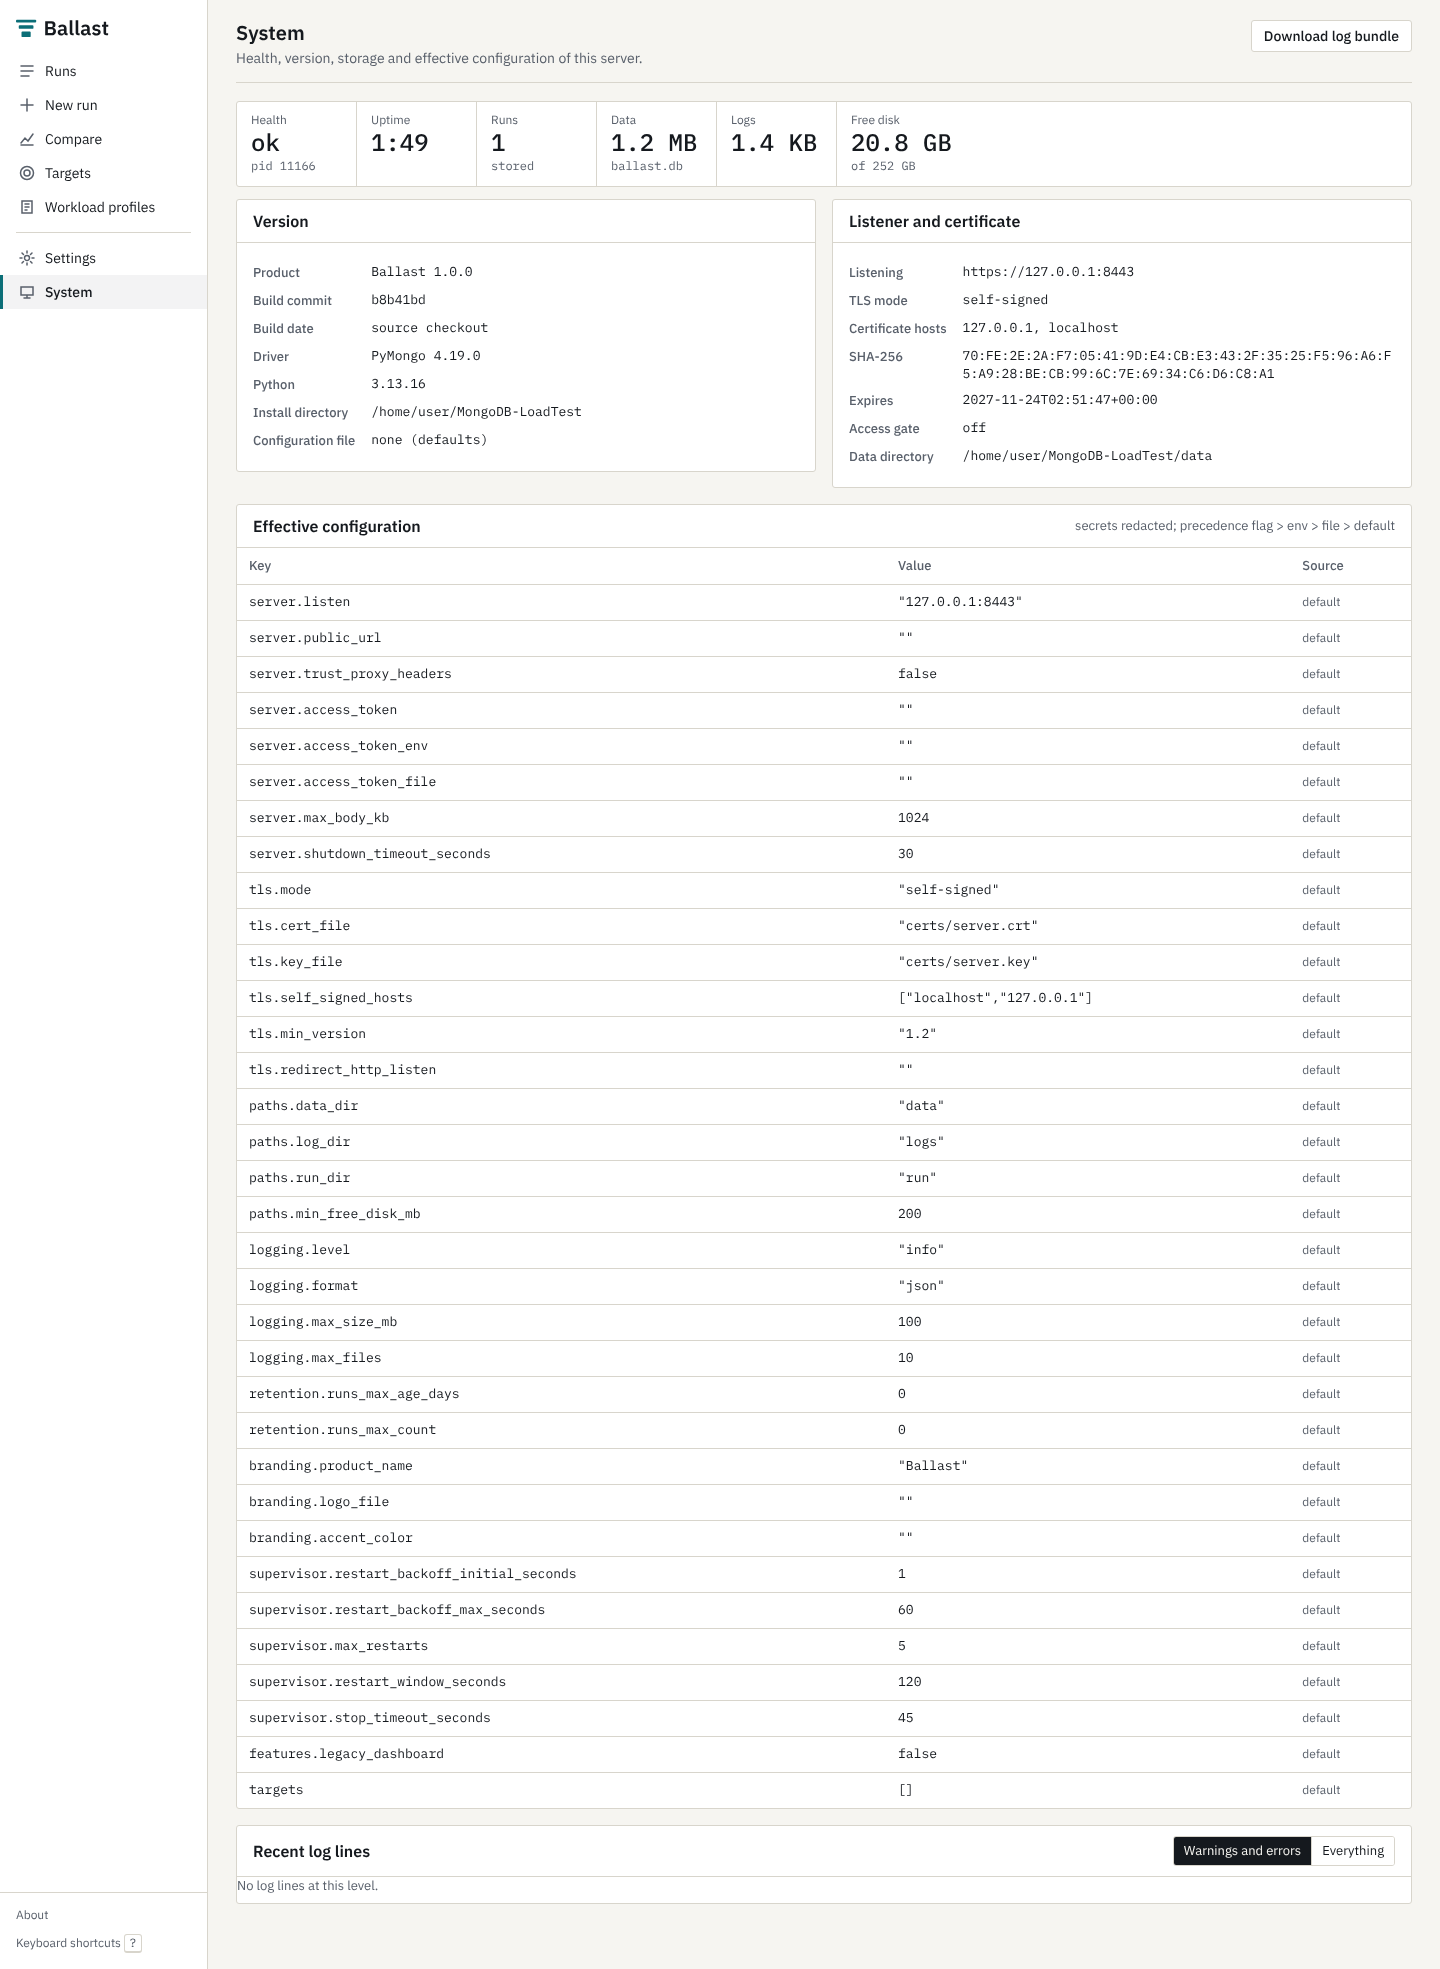
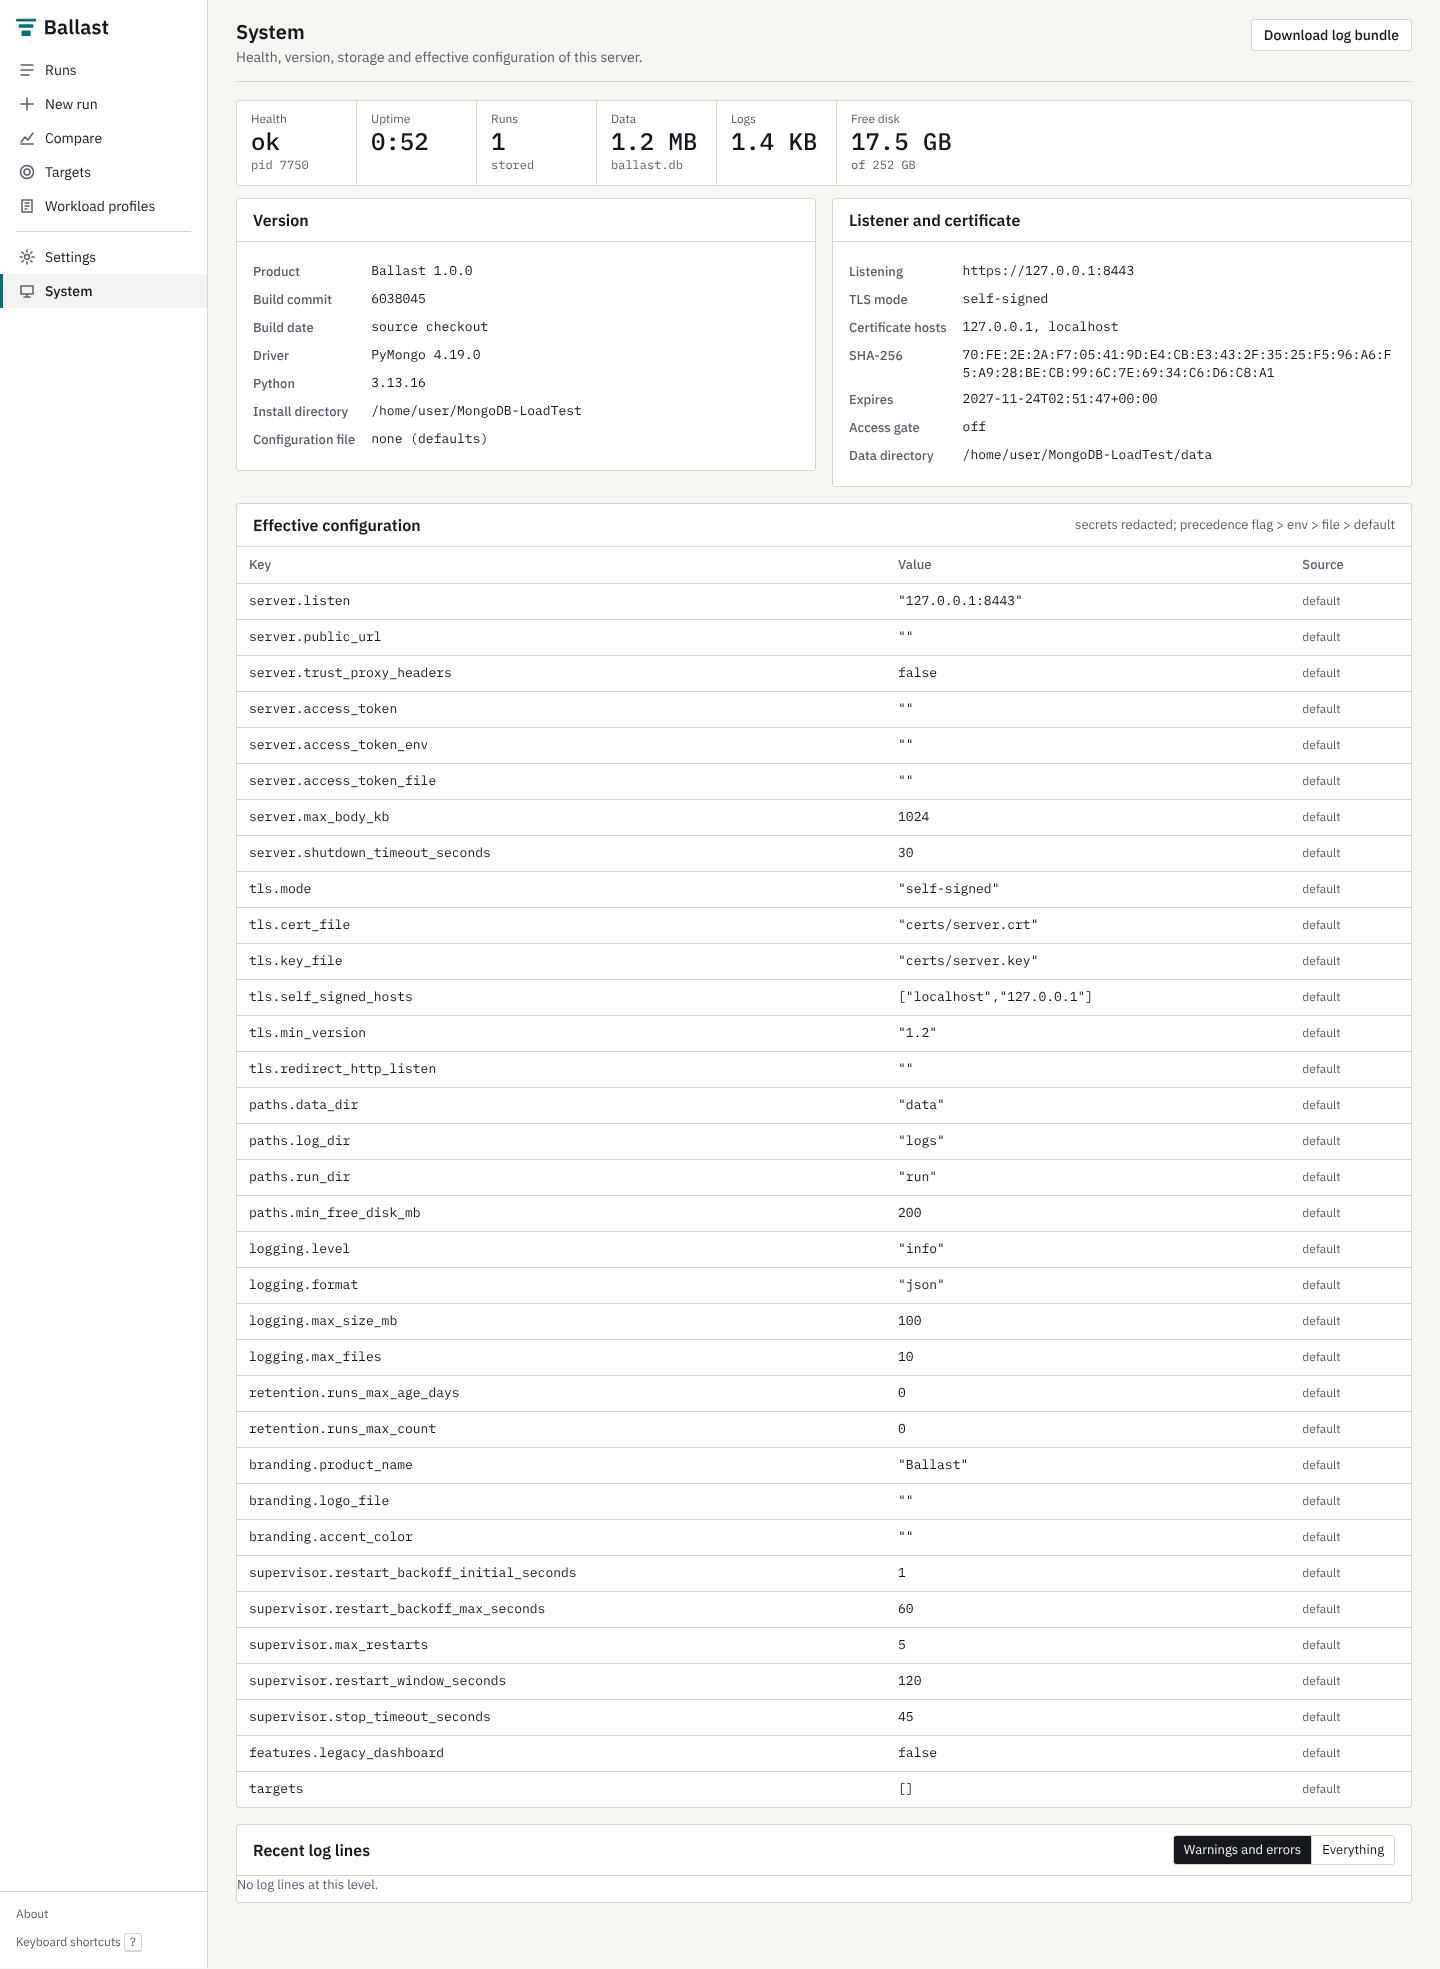
Refresh screenshots and e2e evidence after review fixes
Claude-Session: https://claude.ai/code/session_01DoMs5j2boR8MfKkuJdVeeC

diff --git a/docs/VERIFICATION.md b/docs/VERIFICATION.md
@@ -77,7 +77,9 @@ SHOTS=docs/design/after node tests/e2e/run.mjs
 
 Steps: empty runs page; create a target through the form and see the connection test result; open a profile; walk the new-run wizard to the review; start the run and land on the live view; add "resize started" and "resize finished" markers with the M key while a 4-second write stall runs; check the active-run band on the runs page; pause and resume with P; stop with S and confirm; check the impact table; export the HTML report and open it from disk with network requests recorded; CSV and JSON exports; compare, settings, system pages; dark theme and compact density; keyboard shortcuts dialog and N. All passed, with no console errors and no request to any host other than the server. The exported report made zero network requests.
 
-The resulting report (`docs/design/after/04-report.png`) shows the stall exactly as designed: a 4.07 s write gap, p99 rising from 6.8 ms before the window to 3.9 s during it, the open model's catch-up burst to about 1,500 ops/s as its backlog drained, and a recovery time of 10 s.
+The resulting report (`docs/design/after/04-report.png`, rerun after the review fixes in commit 6038045) shows the stall exactly as designed: a 4.13 s write gap, p99 rising from 16.2 ms before the window to 3.98 s during it, the open model's catch-up burst to about 1,500 ops/s as its backlog drained, and recovery within the first second after the end marker.
+
+One rerun of this test happened while the release build was compressing bundles on the same 4-CPU host (load average 6). That run showed p99 near 1 s after resume and an extra detected disruption. The next run on an idle host did not, so that was generator CPU starvation rather than a defect. It is also the case that the client-bound check exists to flag.
 
 ## 4. Accessibility
 
